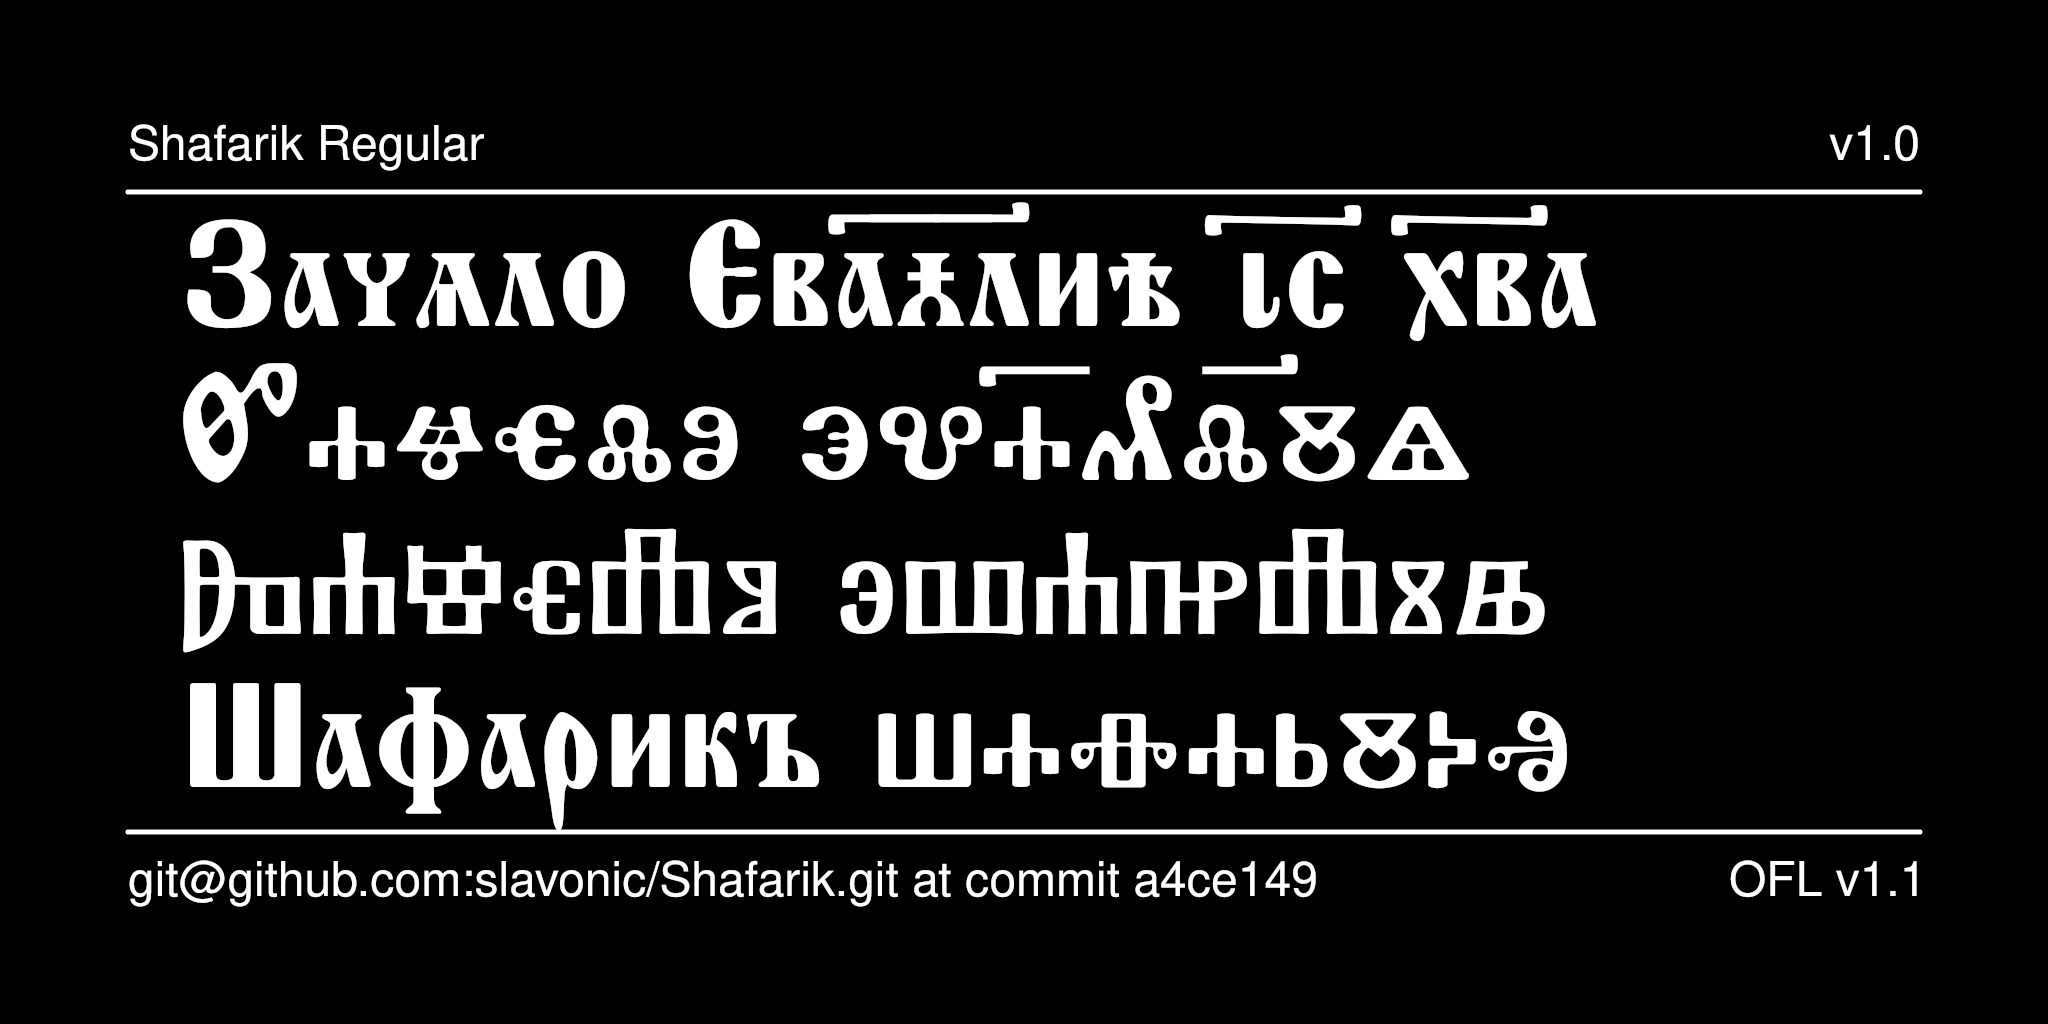
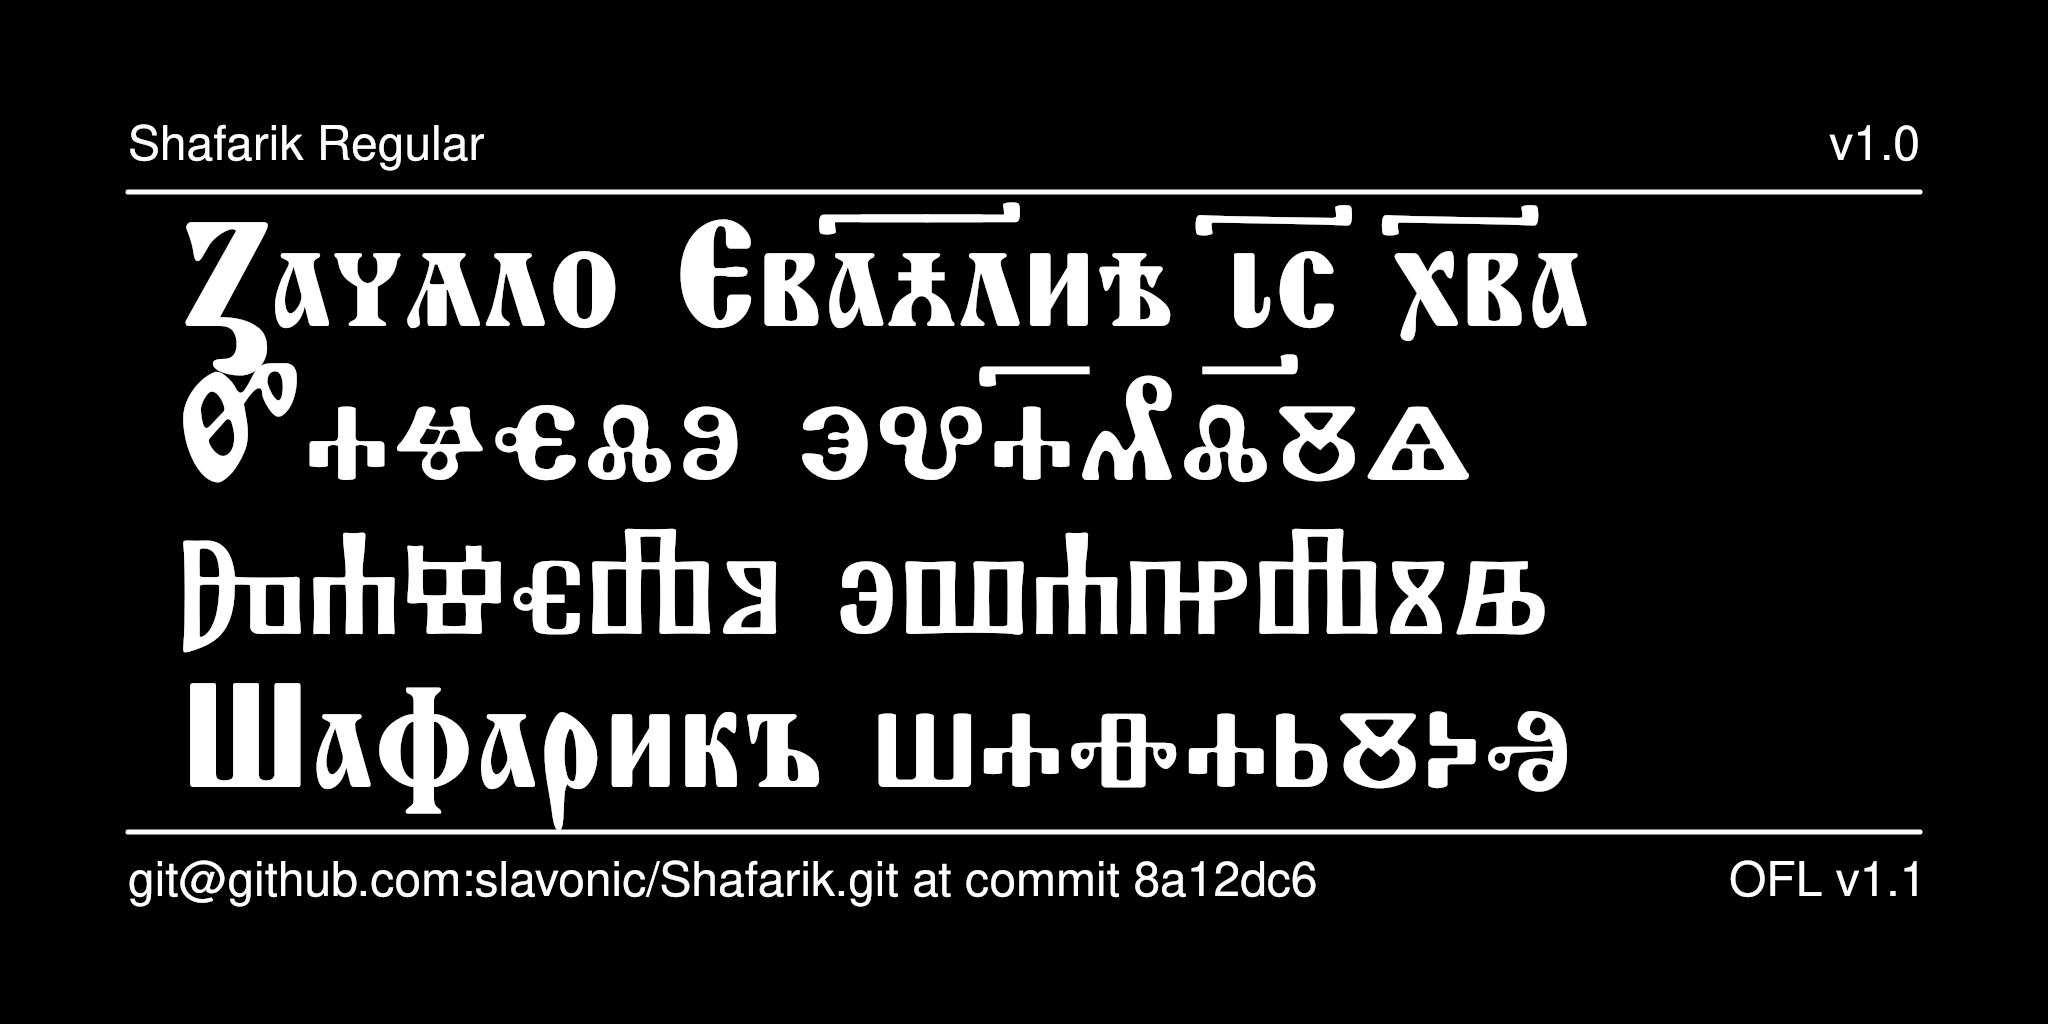
Fix images

diff --git a/documentation/image2.py b/documentation/image2.py
@@ -21,7 +21,7 @@ FONT_LICENSE = "OFL v1.1"
 AUXILIARY_FONT = "Helvetica"
 AUXILIARY_FONT_SIZE = 48
 
-LINE_ONE = " Зачѧло Ева︮ꙉ︦л︯иѣ ꙇ͠с х͠ва"
+LINE_ONE = " Ꙁачѧло Ева︮ꙉ︦л︯иѣ ꙇ͠с х͠ва"
 LINE_TWO = " Ⰸⰰⱍⱔⰾⱁ ⰵⰲⰰ︮ⰼⰾ︯ⰻⱑ"
 LINE_THREE = "   "
 LINE_FOUR = " Шафарикъ ⱎⰰⱇⰰⱃⰻⰽⱏ "
